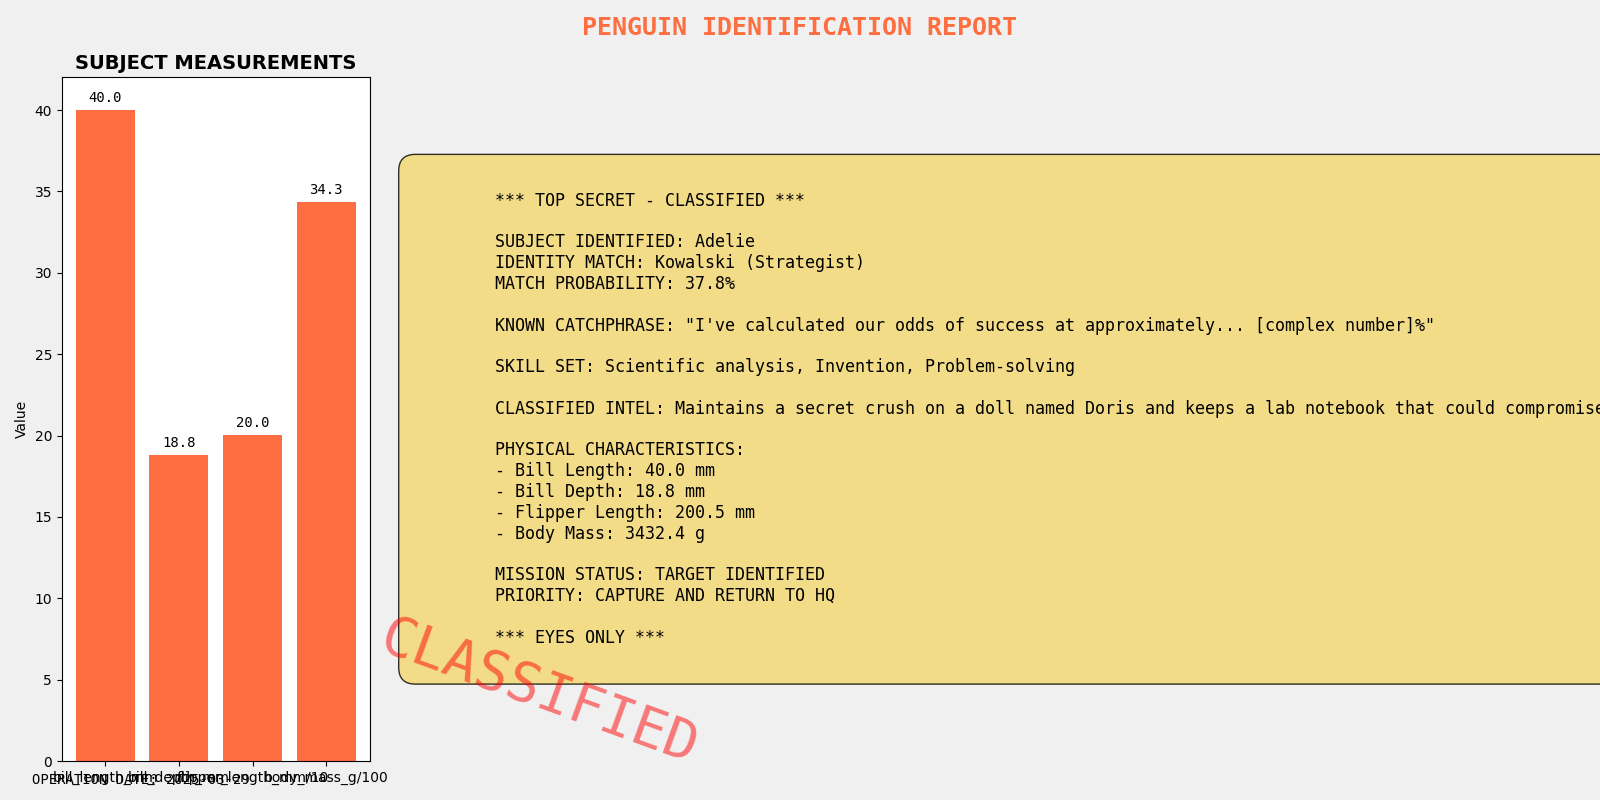
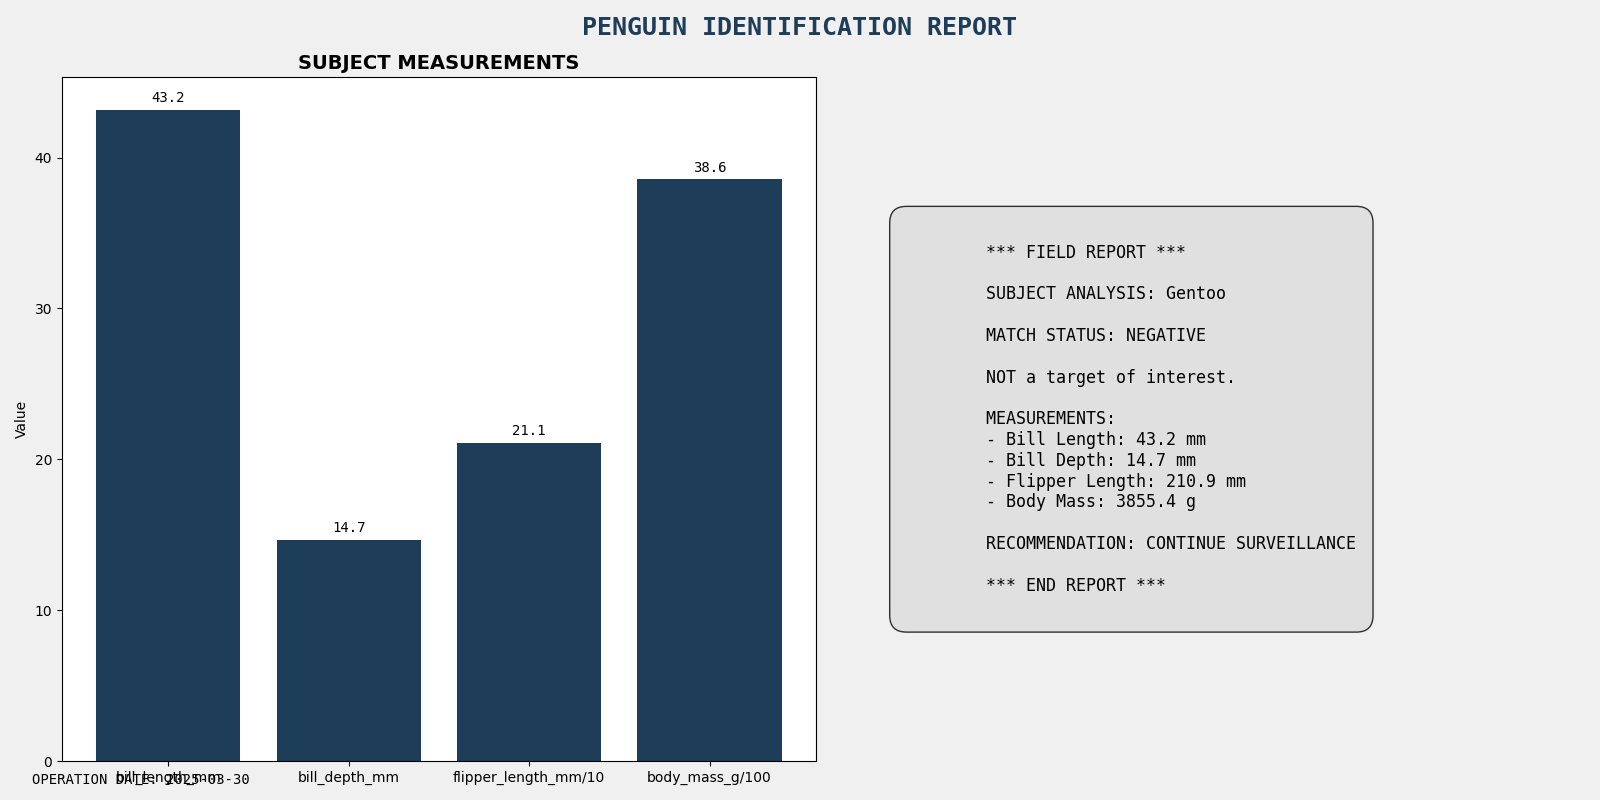
Update penguin prediction for 2025-03-30

diff --git a/data/predictions/index.html b/data/predictions/index.html
@@ -82,10 +82,10 @@
         </div>
         
         <div class="prediction">
-            <p>Latest Prediction (Date: 2025-03-29): 
-                <span class="adelie">Adelie</span>
+            <p>Latest Prediction (Date: 2025-03-30): 
+                <span class="other">Gentoo</span>
             </p>
-            <p>This is likely Kowalski from the Penguins of Madagascar!</p>
+            <p>Not one of the Penguins of Madagascar</p>
         </div>
         
         <div class="visualization">
@@ -95,17 +95,17 @@
         <div class="penguin-data">
             <h3>Penguin Measurements:</h3>
             <ul>
-                <li><strong>Bill Length:</strong> 40.0105124216842 mm</li>
-                <li><strong>Bill Depth:</strong> 18.805087344581665 mm</li>
-                <li><strong>Flipper Length:</strong> 200.4864568313402 mm</li>
-                <li><strong>Body Mass:</strong> 3432.4280938078796 g</li>
+                <li><strong>Bill Length:</strong> 43.159113044647164 mm</li>
+                <li><strong>Bill Depth:</strong> 14.663447136893936 mm</li>
+                <li><strong>Flipper Length:</strong> 210.8965154965039 mm</li>
+                <li><strong>Body Mass:</strong> 3855.3786127040885 g</li>
             </ul>
         </div>
         
         <div class="stats">
             <h3>Statistics</h3>
-            <p>Total penguins detected: 15</p>
-            <p>Adelie penguins detected: 11 (73.3% of total)</p>
+            <p>Total penguins detected: 16</p>
+            <p>Adelie penguins detected: 11 (68.8% of total)</p>
             <p>Model used: RandomForest</p>
         </div>
         
@@ -117,7 +117,7 @@
                     <th>Species</th>
                     <th>Adelie?</th>
                 </tr>
-                <tr><td>2025-03-20</td><td>Adelie</td><td>Yes</td></tr><tr><td>2025-03-21</td><td>Chinstrap</td><td>No</td></tr><tr><td>2025-03-22</td><td>Chinstrap</td><td>No</td></tr><tr><td>2025-03-23</td><td>Chinstrap</td><td>No</td></tr><tr><td>2025-03-24</td><td>Chinstrap</td><td>No</td></tr><tr><td>2025-03-25</td><td>Adelie</td><td>Yes</td></tr><tr><td>2025-03-26</td><td>Adelie</td><td>Yes</td></tr><tr><td>2025-03-27</td><td>Adelie</td><td>Yes</td></tr><tr><td>2025-03-28</td><td>Adelie</td><td>Yes</td></tr><tr><td>2025-03-29</td><td>Adelie</td><td>Yes</td></tr>
+                <tr><td>2025-03-21</td><td>Chinstrap</td><td>No</td></tr><tr><td>2025-03-22</td><td>Chinstrap</td><td>No</td></tr><tr><td>2025-03-23</td><td>Chinstrap</td><td>No</td></tr><tr><td>2025-03-24</td><td>Chinstrap</td><td>No</td></tr><tr><td>2025-03-25</td><td>Adelie</td><td>Yes</td></tr><tr><td>2025-03-26</td><td>Adelie</td><td>Yes</td></tr><tr><td>2025-03-27</td><td>Adelie</td><td>Yes</td></tr><tr><td>2025-03-28</td><td>Adelie</td><td>Yes</td></tr><tr><td>2025-03-29</td><td>Adelie</td><td>Yes</td></tr><tr><td>2025-03-30</td><td>Gentoo</td><td>No</td></tr>
             </table>
         </div>
     </div>

diff --git a/index.html b/index.html
@@ -82,10 +82,10 @@
         </div>
         
         <div class="prediction">
-            <p>Latest Prediction (Date: 2025-03-29): 
-                <span class="adelie">Adelie</span>
+            <p>Latest Prediction (Date: 2025-03-30): 
+                <span class="other">Gentoo</span>
             </p>
-            <p>This is likely Kowalski from the Penguins of Madagascar!</p>
+            <p>Not one of the Penguins of Madagascar</p>
         </div>
         
         <div class="visualization">
@@ -95,17 +95,17 @@
         <div class="penguin-data">
             <h3>Penguin Measurements:</h3>
             <ul>
-                <li><strong>Bill Length:</strong> 40.0105124216842 mm</li>
-                <li><strong>Bill Depth:</strong> 18.805087344581665 mm</li>
-                <li><strong>Flipper Length:</strong> 200.4864568313402 mm</li>
-                <li><strong>Body Mass:</strong> 3432.4280938078796 g</li>
+                <li><strong>Bill Length:</strong> 43.159113044647164 mm</li>
+                <li><strong>Bill Depth:</strong> 14.663447136893936 mm</li>
+                <li><strong>Flipper Length:</strong> 210.8965154965039 mm</li>
+                <li><strong>Body Mass:</strong> 3855.3786127040885 g</li>
             </ul>
         </div>
         
         <div class="stats">
             <h3>Statistics</h3>
-            <p>Total penguins detected: 15</p>
-            <p>Adelie penguins detected: 11 (73.3% of total)</p>
+            <p>Total penguins detected: 16</p>
+            <p>Adelie penguins detected: 11 (68.8% of total)</p>
             <p>Model used: RandomForest</p>
         </div>
         
@@ -117,7 +117,7 @@
                     <th>Species</th>
                     <th>Adelie?</th>
                 </tr>
-                <tr><td>2025-03-20</td><td>Adelie</td><td>Yes</td></tr><tr><td>2025-03-21</td><td>Chinstrap</td><td>No</td></tr><tr><td>2025-03-22</td><td>Chinstrap</td><td>No</td></tr><tr><td>2025-03-23</td><td>Chinstrap</td><td>No</td></tr><tr><td>2025-03-24</td><td>Chinstrap</td><td>No</td></tr><tr><td>2025-03-25</td><td>Adelie</td><td>Yes</td></tr><tr><td>2025-03-26</td><td>Adelie</td><td>Yes</td></tr><tr><td>2025-03-27</td><td>Adelie</td><td>Yes</td></tr><tr><td>2025-03-28</td><td>Adelie</td><td>Yes</td></tr><tr><td>2025-03-29</td><td>Adelie</td><td>Yes</td></tr>
+                <tr><td>2025-03-21</td><td>Chinstrap</td><td>No</td></tr><tr><td>2025-03-22</td><td>Chinstrap</td><td>No</td></tr><tr><td>2025-03-23</td><td>Chinstrap</td><td>No</td></tr><tr><td>2025-03-24</td><td>Chinstrap</td><td>No</td></tr><tr><td>2025-03-25</td><td>Adelie</td><td>Yes</td></tr><tr><td>2025-03-26</td><td>Adelie</td><td>Yes</td></tr><tr><td>2025-03-27</td><td>Adelie</td><td>Yes</td></tr><tr><td>2025-03-28</td><td>Adelie</td><td>Yes</td></tr><tr><td>2025-03-29</td><td>Adelie</td><td>Yes</td></tr><tr><td>2025-03-30</td><td>Gentoo</td><td>No</td></tr>
             </table>
         </div>
     </div>
